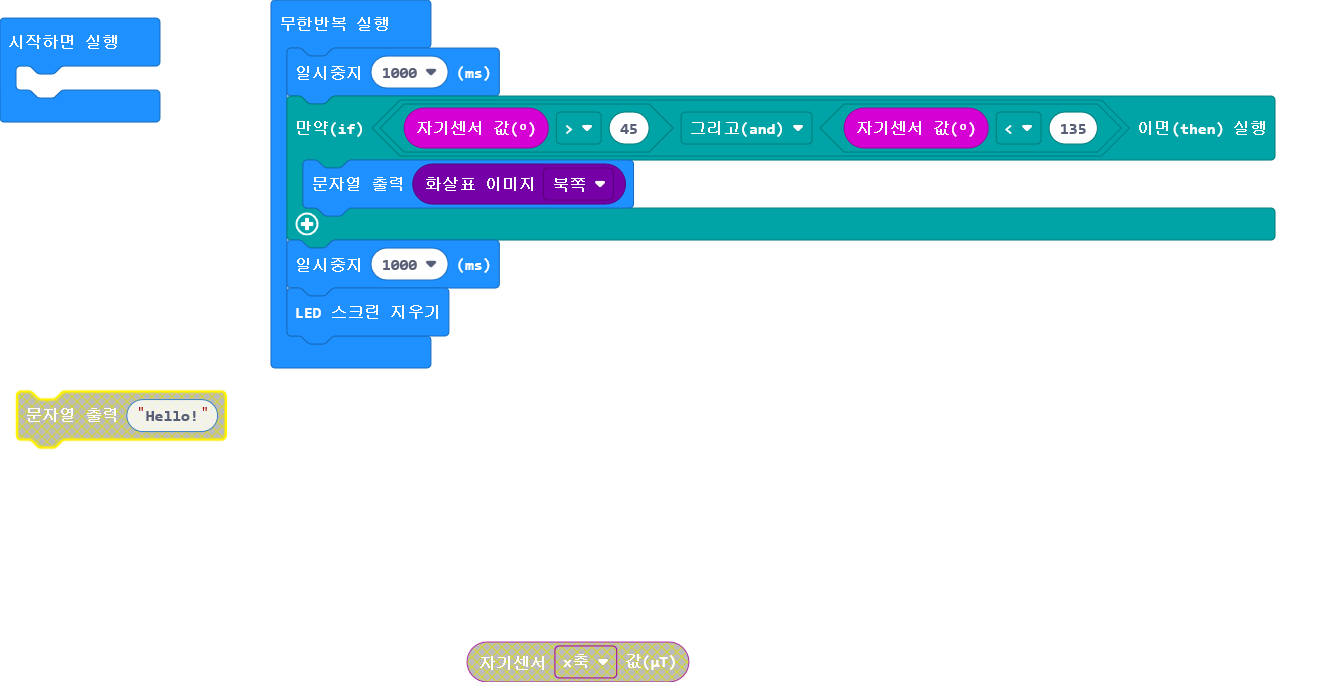
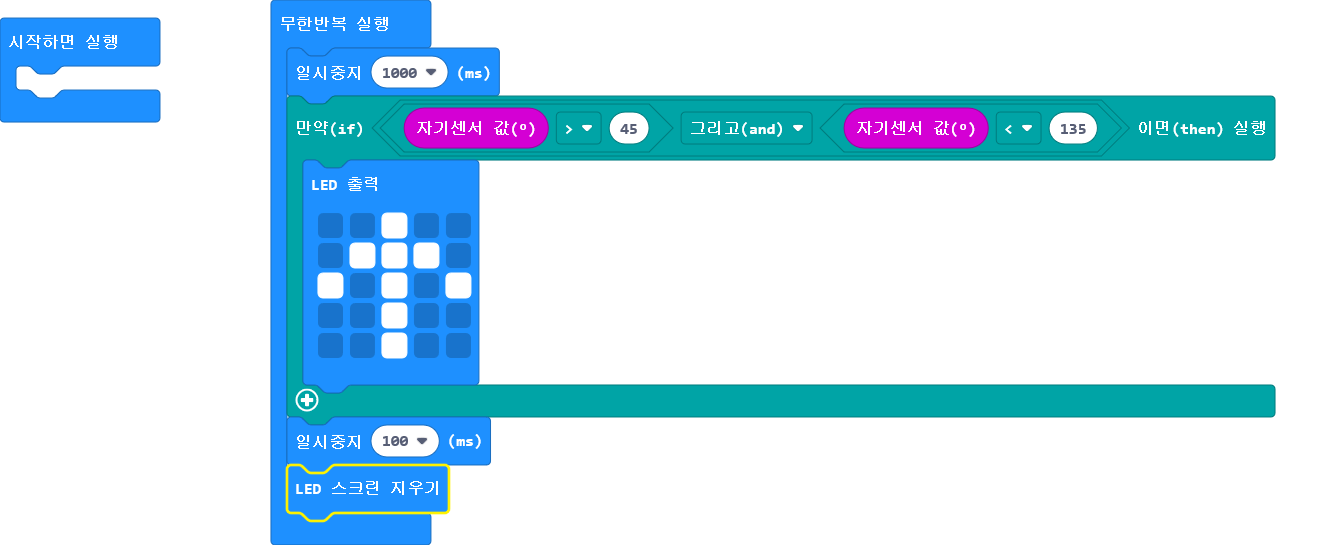
main.blocks, main.ts 업데이트하기

Changed region(s): [[0.0, 0.0, 0.9887, 1.0], [0.0, 0.0, 0.1236, 0.2495]]

diff --git a/main.ts b/main.ts
@@ -1,8 +1,14 @@
 basic.forever(function () {
     basic.pause(1000)
     if (input.compassHeading() > 45 && input.compassHeading() < 135) {
-        basic.showString("" + (images.arrowImage(ArrowNames.North)))
+        basic.showLeds(`
+            . . # . .
+            . # # # .
+            # . # . #
+            . . # . .
+            . . # . .
+            `)
     }
-    basic.pause(1000)
+    basic.pause(100)
     basic.clearScreen()
 })
